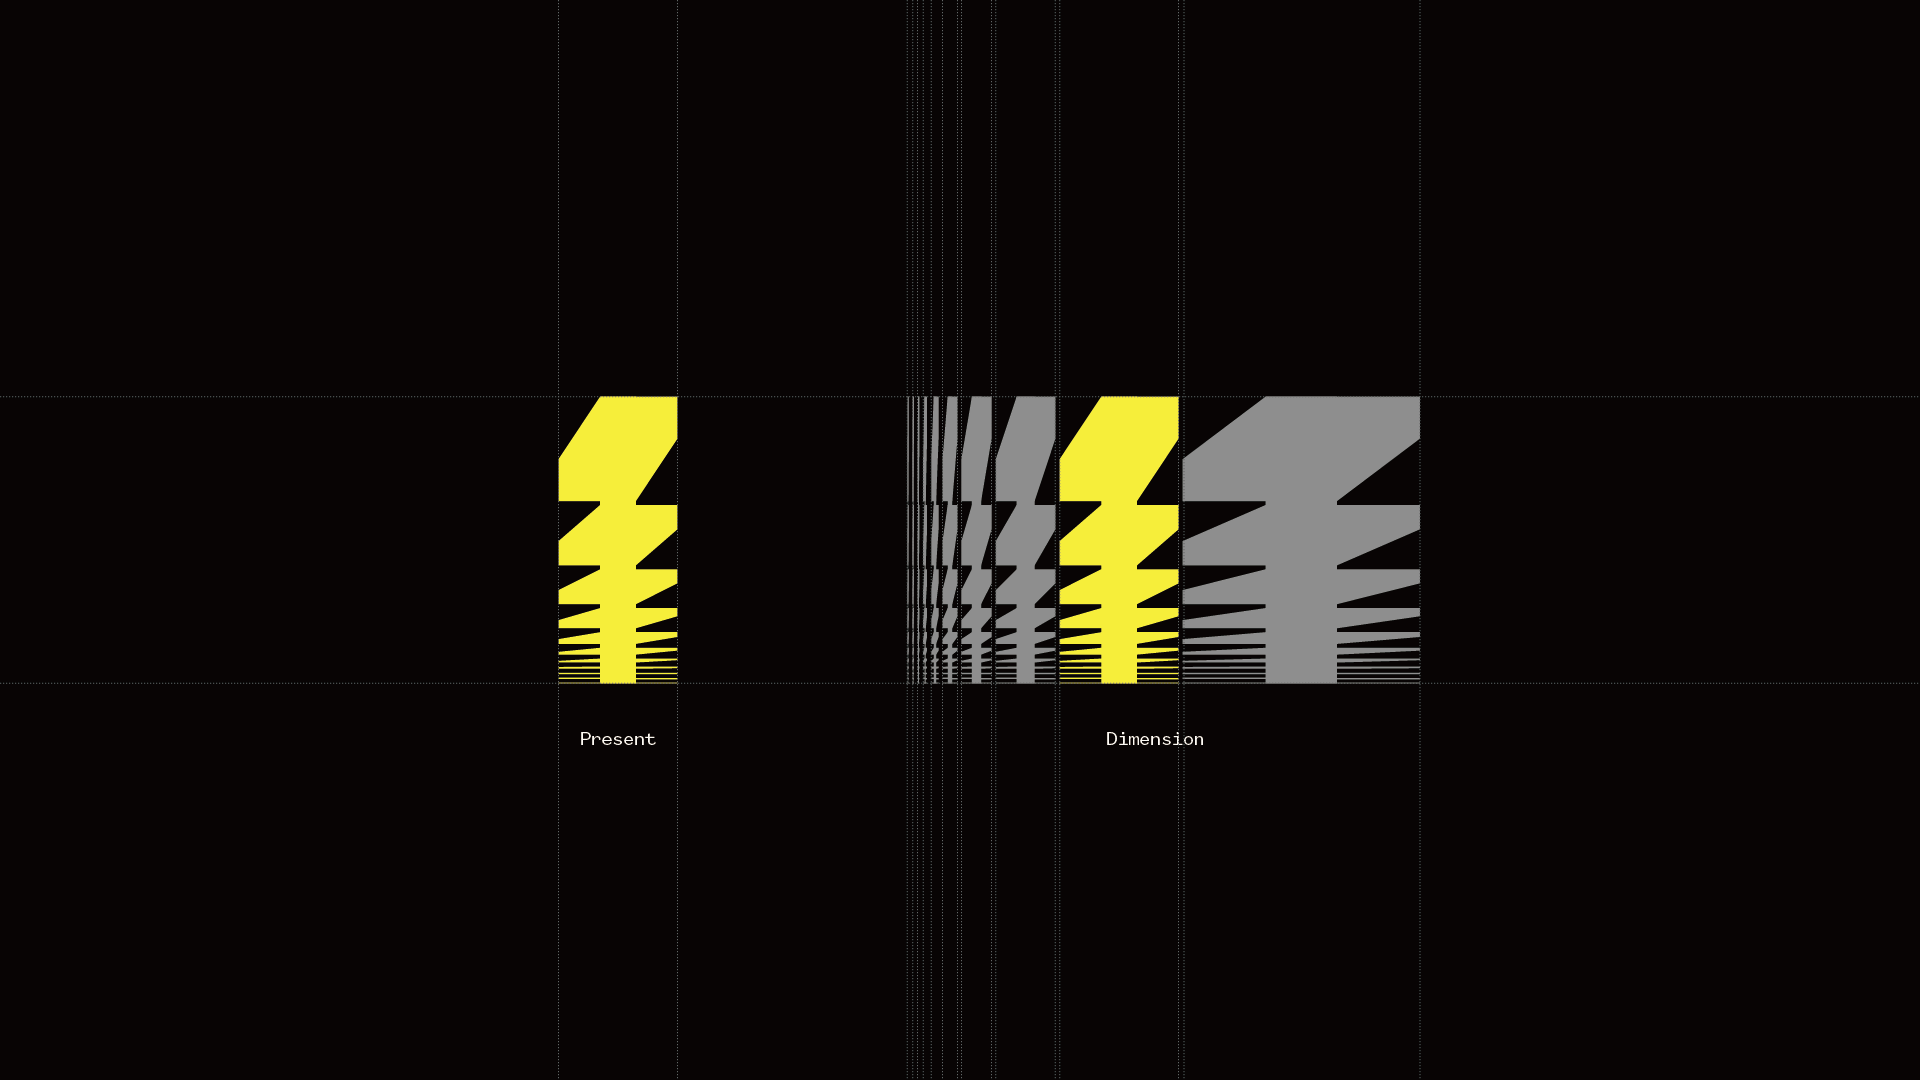
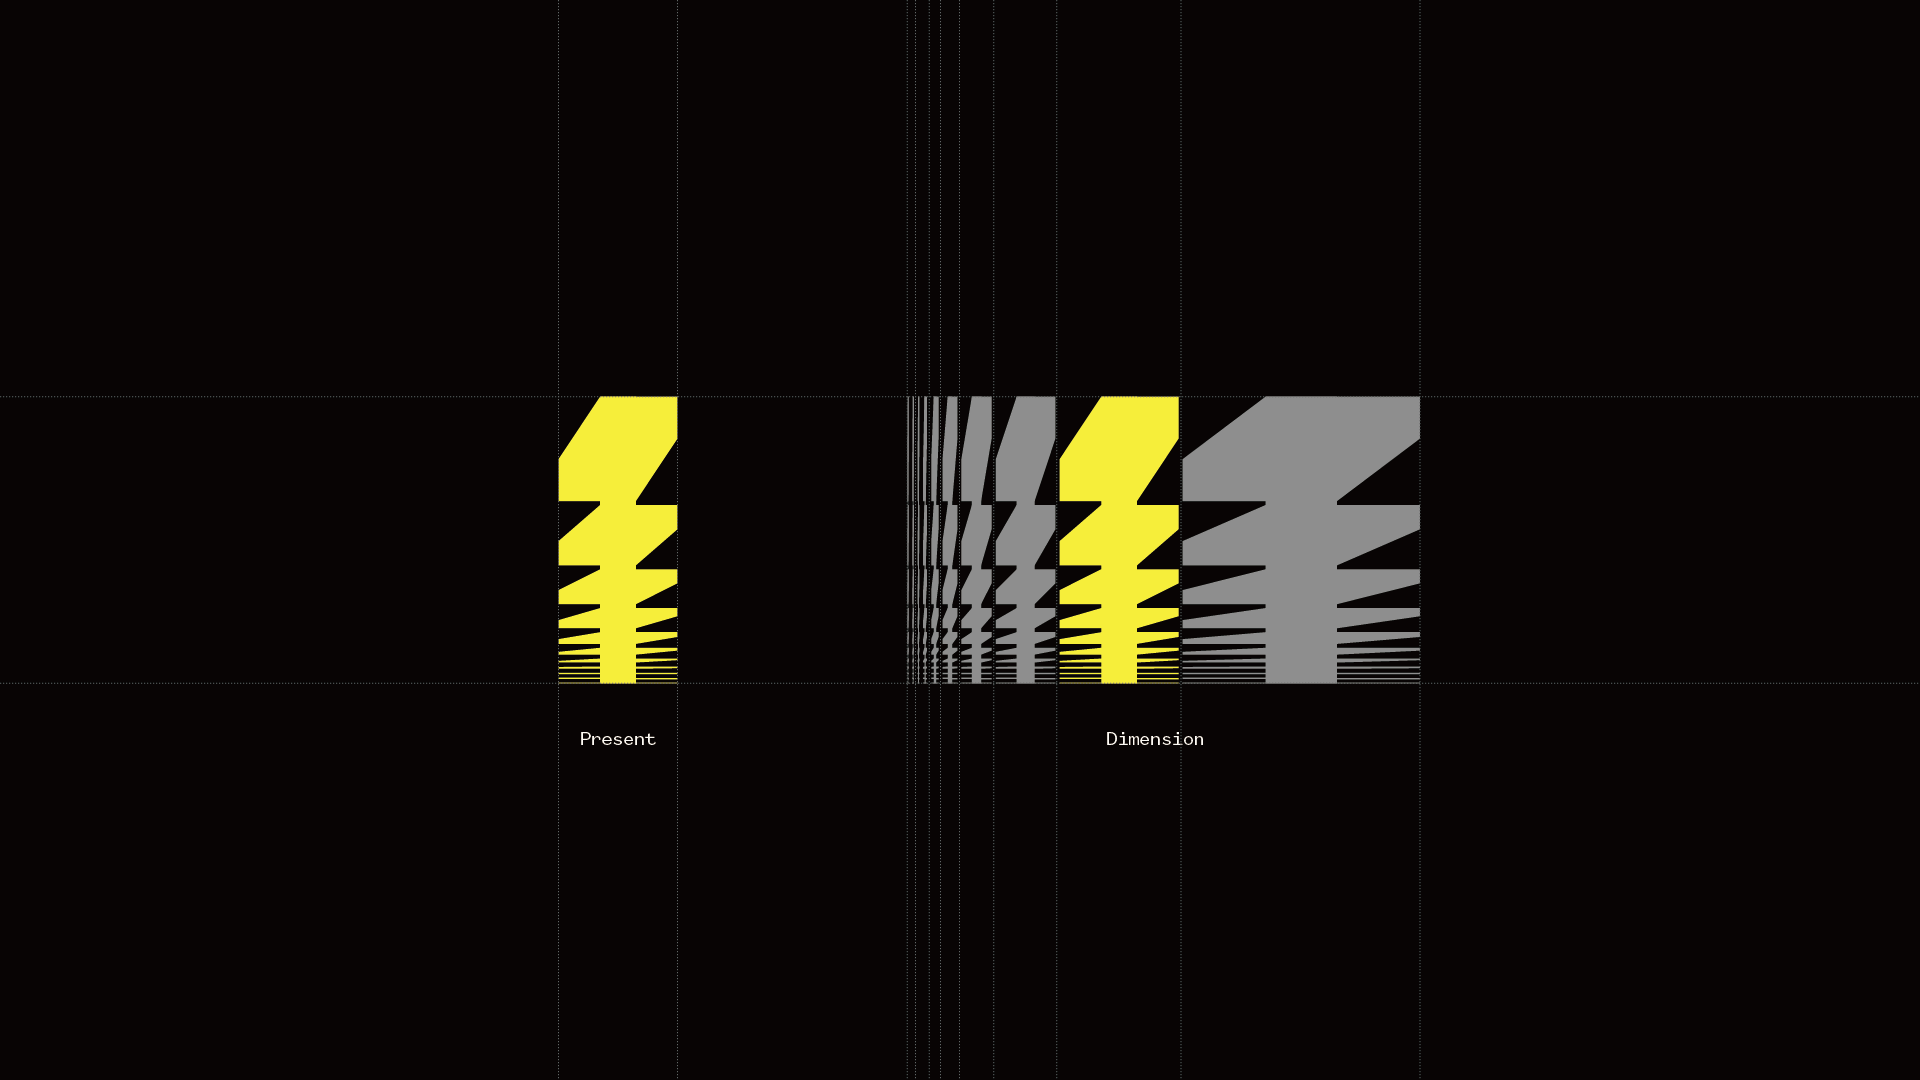
Reference and external links turn Builder Neon on hover (text and underline, no box); Graphic Unit figures refreshed from the 08:37 export (compression · adversity · scale · dimension changed)

Changed region(s): [[0.4688, 0.6417, 0.5, 1.0], [0.4688, 0.0, 0.5, 0.3667]]

diff --git a/src/styles/base.css b/src/styles/base.css
@@ -889,6 +889,11 @@ html.js .main {
 .xref {
   position: relative; /* 호버 알약(.swatch__tip)의 기준 상자. nowrap 이라 한 줄 상자 하나 */
   white-space: nowrap;
+  transition: color var(--xref-hover-dur) var(--ease);
+}
+.xref:hover,
+.xref:focus-visible {
+  color: var(--xref-hover-c); /* 글자와 밑줄이 네온으로 (박스 없음) */
 }
 /* 링크 호버 알약: 칩의 Copy 알약과 같은 부품을 링크 글자 위에 띄움. 글자는 아래 content (JUMP · OPEN · MAIL) */
 .xref .swatch__tip {

diff --git a/src/styles/tokens.css b/src/styles/tokens.css
@@ -387,6 +387,8 @@
   --lightbox-bg: color-mix(in srgb, var(--c-space-black), transparent 8%); /* 뒤를 덮는 막 */
 
   /* 3-10 텍스트 선택 영역 (드래그) */
+  --xref-hover-c: var(--c-builder-neon); /* 참조·외부 링크 호버 때 글자색 (밑줄도 같이) */
+  --xref-hover-dur: 120ms; /* 링크 글자색이 바뀌는 시간 */
   --selection-bg: var(--c-builder-neon);
   --selection-fg: var(--c-space-black);
 
